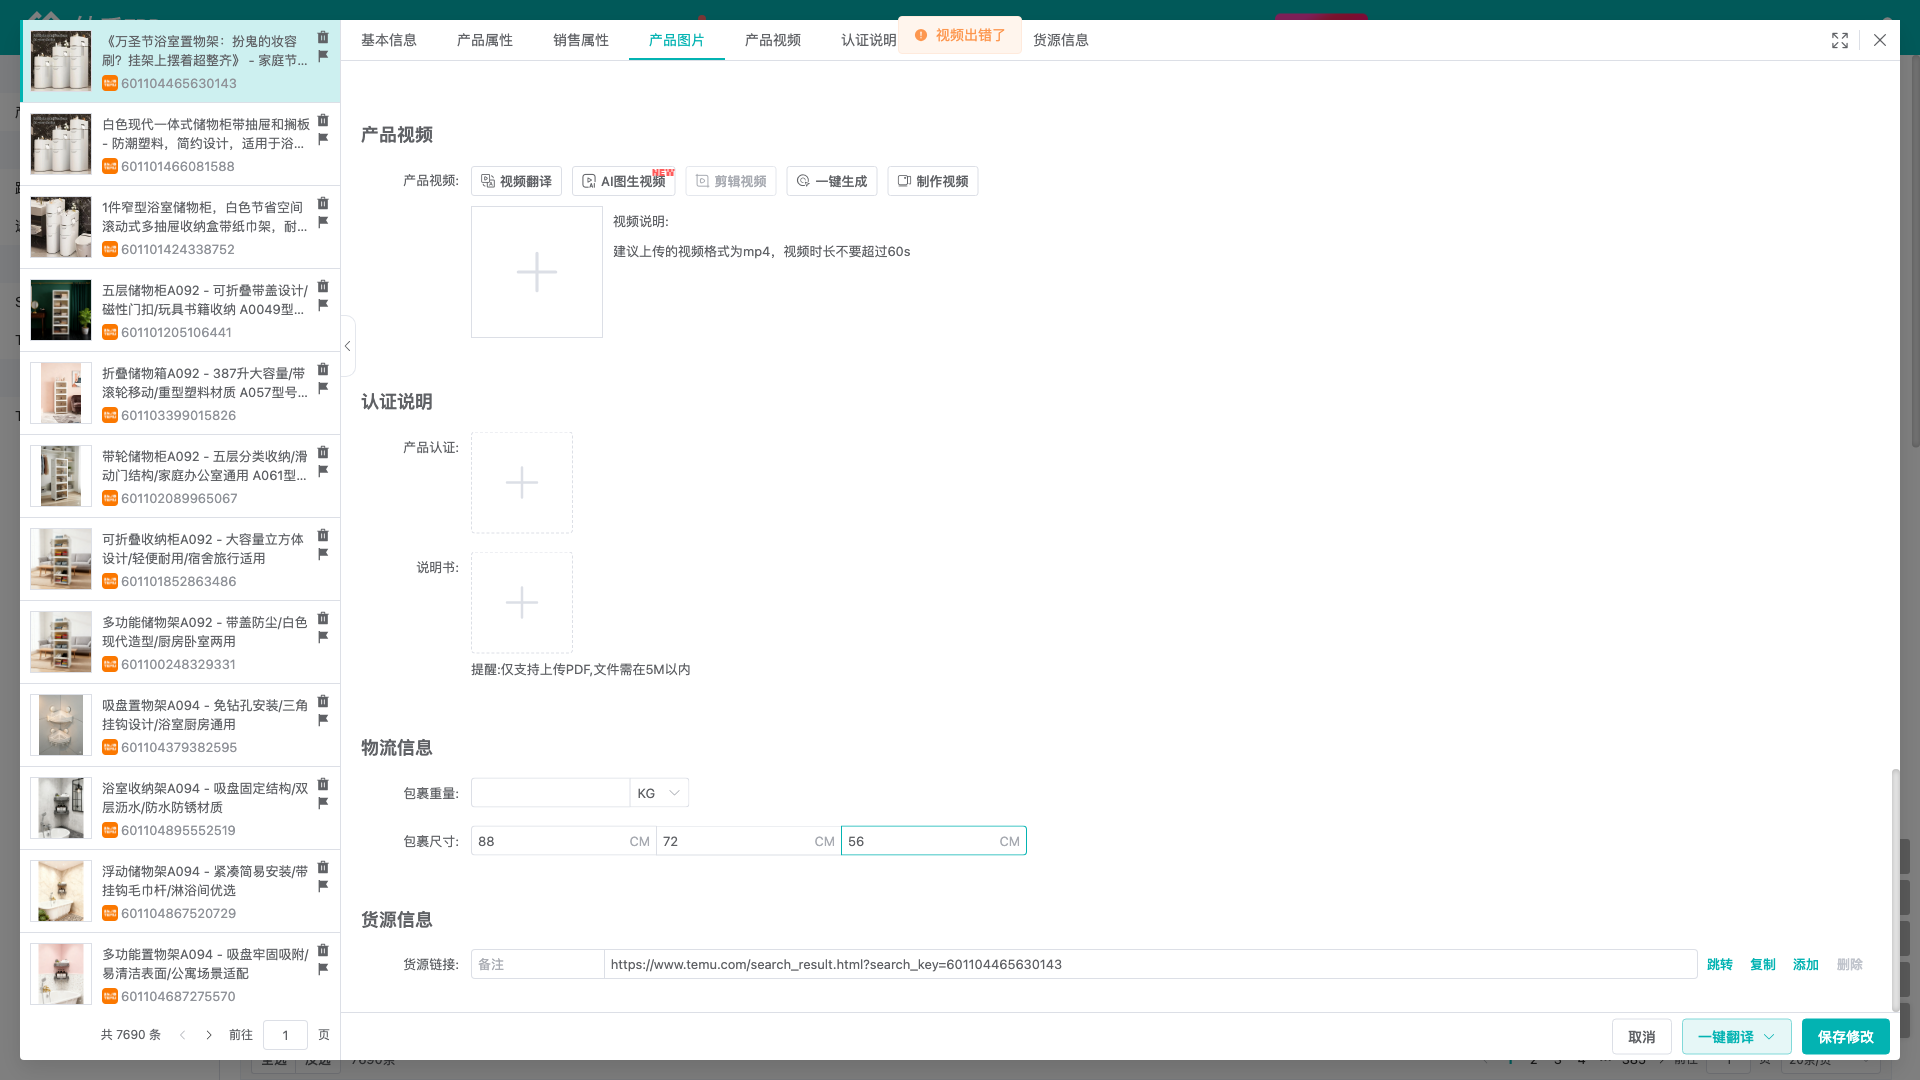
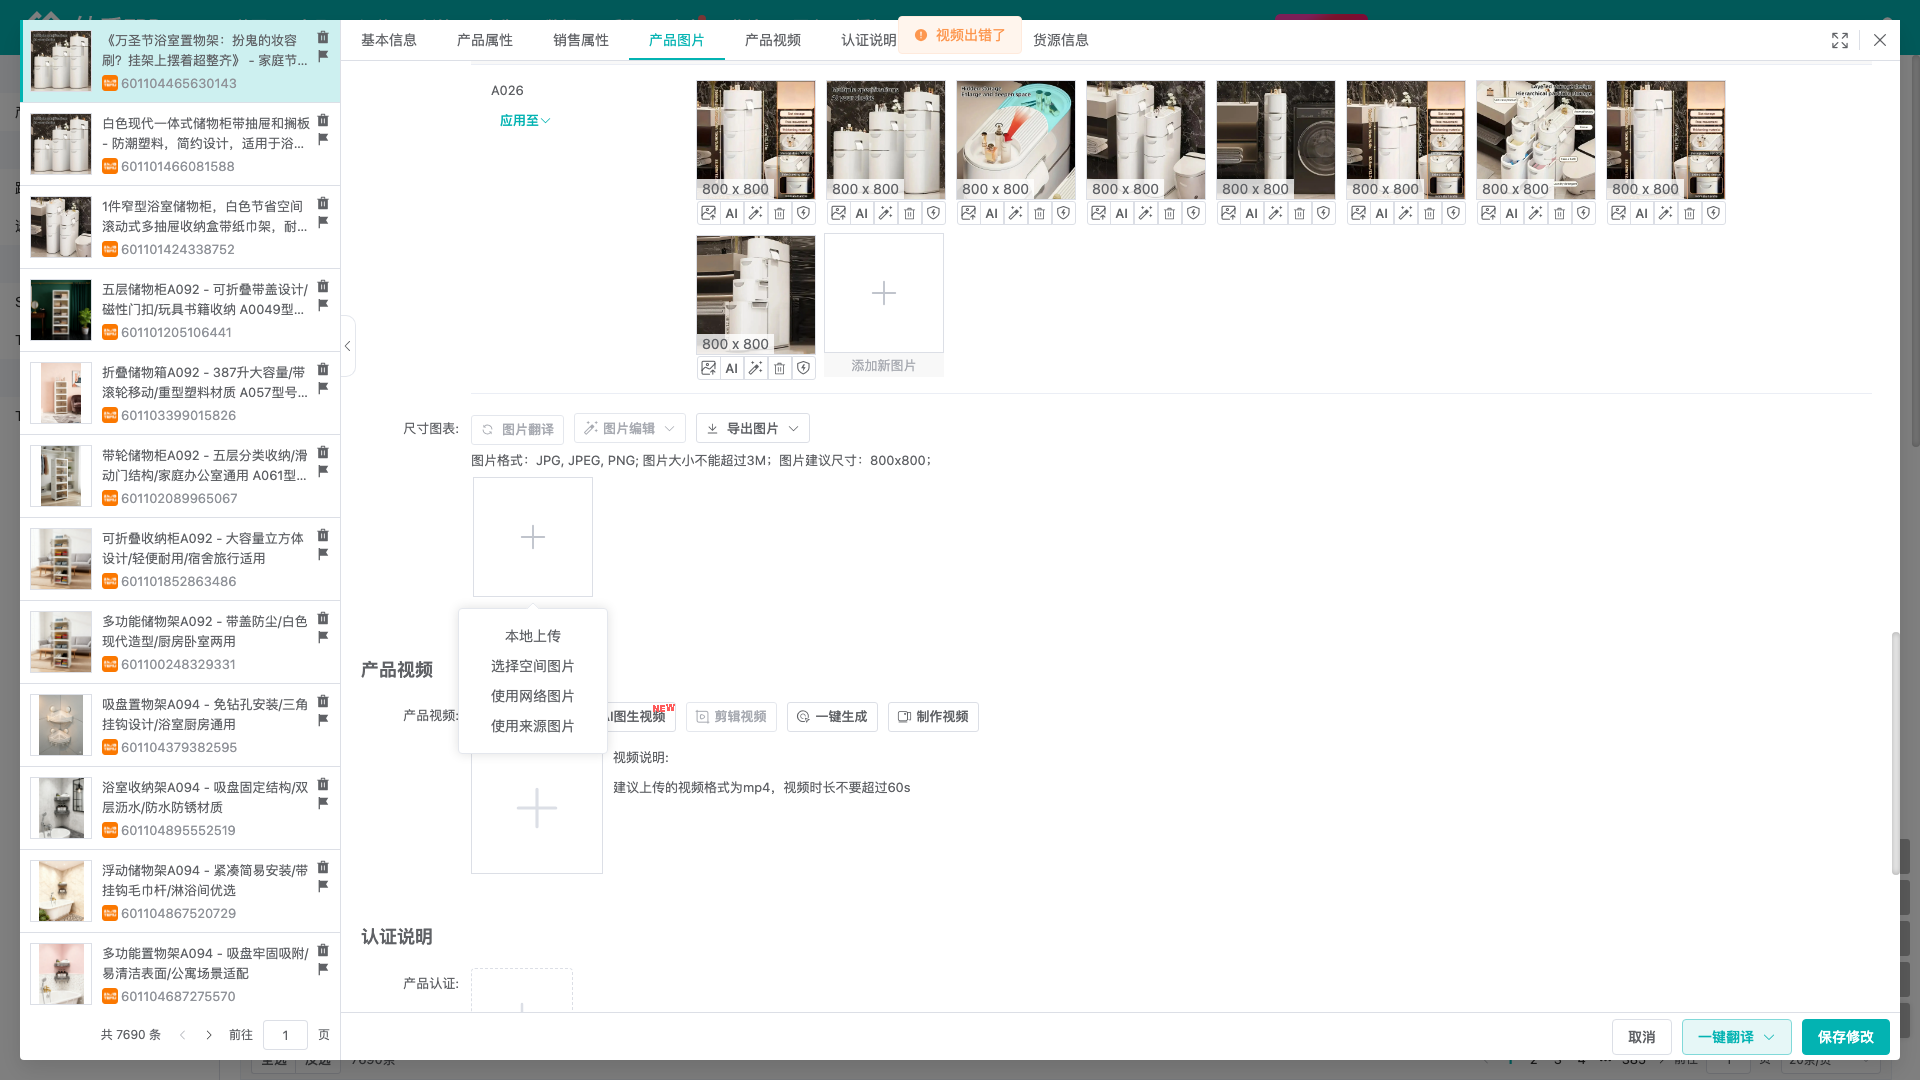
fix: 先定位到尺寸图表区域再上传图片
分析问题：
- 之前图片上传到了产品图片区域，不是尺寸图区域
- 需要先滚动/定位到「尺寸图表」区域

改进：
- 步骤1: 通过文本「尺寸图表」定位并滚动到该区域
- 步骤2: 点击该区域的添加按钮
- 步骤3: 上传文件
- 更新调试截图文件名为 before/after_size_chart_upload.png

diff --git a/apps/temu-auto-publish/src/browser/first_edit_dialog_codegen.py b/apps/temu-auto-publish/src/browser/first_edit_dialog_codegen.py
@@ -411,12 +411,12 @@ async def _fill_supplier_link(page: Page, supplier_link: str) -> bool:
 
 
 async def _upload_size_chart_local(page: Page, image_path: str) -> bool:
-    """上传尺寸图（本地文件）- 参考批量编辑的外包装图片上传逻辑.
+    """上传尺寸图（本地文件）- 定位到尺寸图表区域后上传.
     
     流程:
-    1. 点击尺寸图添加区域 (.product-picture-item-add)
-    2. 等待文件输入框出现
-    3. 直接上传文件到 input[type='file']
+    1. 定位到"尺寸图表"区域（通过滚动或文本定位）
+    2. 点击尺寸图添加按钮 (.product-picture-item-add)
+    3. 上传文件到 input[type='file']
     
     Args:
         page: Playwright 页面对象.
@@ -442,41 +442,68 @@ async def _upload_size_chart_local(page: Page, image_path: str) -> bool:
         debug_dir.mkdir(parents=True, exist_ok=True)
         
         try:
-            await page.screenshot(path=str(debug_dir / "before_image_upload.png"))
-            logger.debug(f"已保存上传前截图: {debug_dir / 'before_image_upload.png'}")
+            await page.screenshot(path=str(debug_dir / "before_size_chart_upload.png"))
+            logger.debug(f"已保存上传前截图: {debug_dir / 'before_size_chart_upload.png'}")
         except Exception:
             pass
 
-        # 步骤1: 点击尺寸图添加区域（触发文件上传）
+        # 步骤1: 定位到"尺寸图表"区域
         try:
-            add_button = page.locator(".product-picture-item-add")
-            if await add_button.count() > 0:
-                await add_button.last.click()  # 使用最后一个，通常是尺寸图区域
+            # 尝试查找"尺寸图表"文本或相关区域
+            size_chart_locators = [
+                page.get_by_text("尺寸图表"),
+                page.locator("text=尺寸图表"),
+                page.get_by_role("group", name="尺寸图表"),
+            ]
+            
+            for locator in size_chart_locators:
+                if await locator.count() > 0:
+                    await locator.first.scroll_into_view_if_needed()
+                    logger.debug("✓ 已定位到尺寸图表区域")
+                    await page.wait_for_timeout(300)
+                    break
+        except Exception as exc:
+            logger.debug(f"定位尺寸图表区域失败: {exc}")
+
+        # 步骤2: 在尺寸图表区域点击添加按钮
+        try:
+            # 查找所有添加按钮
+            add_buttons = page.locator(".product-picture-item-add")
+            count = await add_buttons.count()
+            logger.debug(f"找到 {count} 个图片添加按钮")
+            
+            if count > 0:
+                # 尝试找到尺寸图区域的添加按钮（通常是最后一个或倒数第二个）
+                # 优先尝试与"尺寸图表"相关的添加按钮
+                target_button = add_buttons.last
+                await target_button.scroll_into_view_if_needed()
+                await target_button.click()
                 logger.debug("✓ 已点击尺寸图添加按钮")
-                await page.wait_for_timeout(300)  # 等待文件输入框出现
+                await page.wait_for_timeout(500)  # 等待文件选择框出现
             else:
-                logger.warning("⚠ 未找到尺寸图添加按钮 (.product-picture-item-add)")
+                logger.warning("⚠ 未找到图片添加按钮")
+                return False
         except Exception as exc:
             logger.debug(f"点击添加按钮失败: {exc}")
+            return False
 
-        # 步骤2: 查找并使用文件输入框
+        # 步骤3: 上传文件
         file_inputs = page.locator("input[type='file']")
         if await file_inputs.count() > 0:
-            # 直接使用已存在的文件输入框（参考 batch_edit 逻辑）
             await file_inputs.last.set_input_files(image_path)
             logger.success("✓ 尺寸图已上传: %s", image_path)
-            await page.wait_for_timeout(1000)  # 等待上传完成
+            await page.wait_for_timeout(1500)  # 等待上传完成
             
             # 调试：上传后截图
             try:
-                await page.screenshot(path=str(debug_dir / "after_image_upload.png"))
-                logger.debug(f"已保存上传后截图: {debug_dir / 'after_image_upload.png'}")
+                await page.screenshot(path=str(debug_dir / "after_size_chart_upload.png"))
+                logger.debug(f"已保存上传后截图: {debug_dir / 'after_size_chart_upload.png'}")
             except Exception:
                 pass
             
             return True
         else:
-            logger.warning("⚠ 未找到文件输入框，跳过尺寸图上传")
+            logger.warning("⚠ 未找到文件输入框")
             return False
 
     except Exception as exc:
